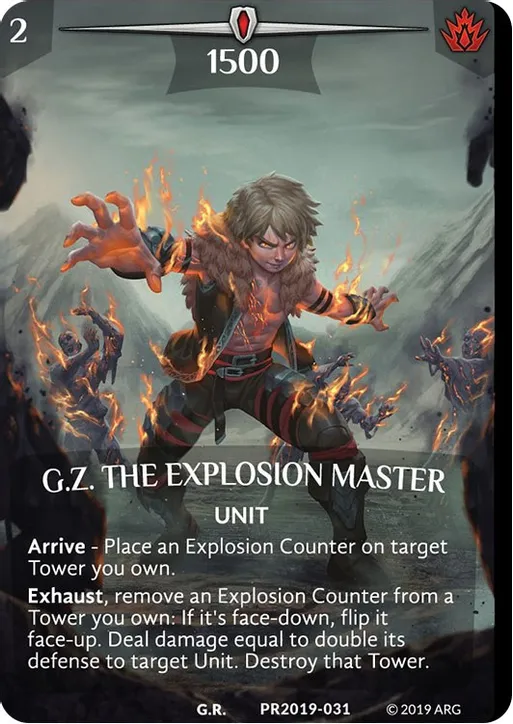
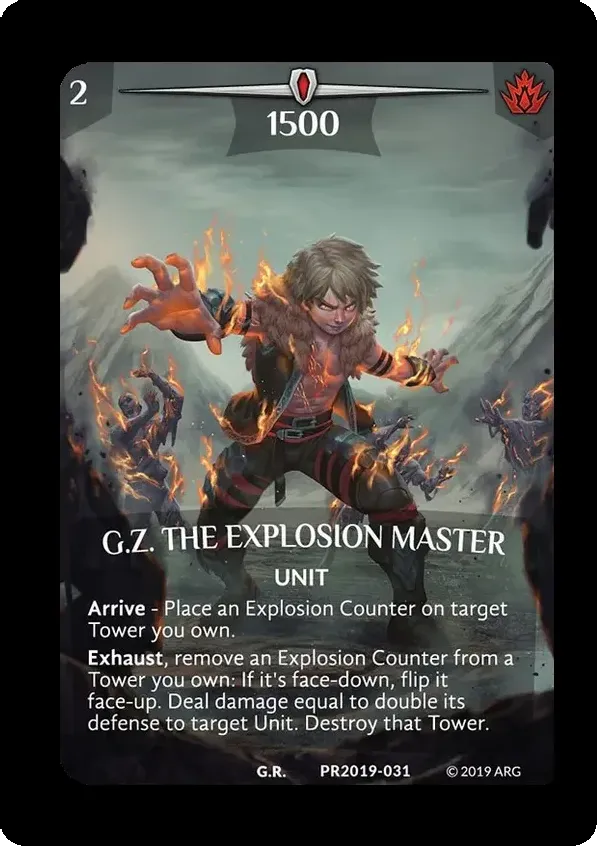
fix

diff --git a/images/python-scripts/chaos.py b/images/python-scripts/chaos.py
@@ -10,7 +10,7 @@ def convertImage(filename):
     datas = img.getdata()
     width, height = img.size
 
-    img = img.crop((1, 3, width - 1, height - 2))
+    img = img.crop((0, 0, width - 19, height - 1))
     img = img.convert("RGBA")
     datas = img.getdata()
     width, height = img.size
@@ -19,75 +19,115 @@ def convertImage(filename):
     for y in range(height):
         for x in range(width):
             pixel = datas.getpixel((x, y))
-            if x in range(9) and y in range(10):
-                if x in range(9) and y == 0:
+            if x in range(27) and y in range(23):
+                if x in range(27) and y == 0:
                     newData.append((0, 0, 0, 255))
-                elif x in range(6) and y == 1:
+                elif x in range(26) and y == 1:
                     newData.append((0, 0, 0, 255))
-                elif x in range(5) and y == 2:
+                elif x in range(21) and y == 2:
                     newData.append((0, 0, 0, 255))
-                elif x in range(4) and y == 3:
+                elif x in range(19) and y == 3:
                     newData.append((0, 0, 0, 255))
-                elif x in range(3) and y == 4:
+                elif x in range(16) and y == 4:
                     newData.append((0, 0, 0, 255))
-                elif x in range(2) and y == 5:
+                elif x in range(14) and y == 5:
                     newData.append((0, 0, 0, 255))
-                elif x in range(2) and y == 6:
+                elif x in range(12) and y == 6:
                     newData.append((0, 0, 0, 255))
-                elif x in range(1) and y == 7:
+                elif x in range(11) and y == 7:
                     newData.append((0, 0, 0, 255))
-                elif x in range(1) and y == 8:
+                elif x in range(10) and y == 8:
+                    newData.append((0, 0, 0, 255))
+                elif x in range(9) and y == 9:
+                    newData.append((0, 0, 0, 255))
+                elif x in range(8) and y == 10:
+                    newData.append((0, 0, 0, 255))
+                elif x in range(7) and y == 11:
+                    newData.append((0, 0, 0, 255))
+                elif x in range(6) and y == 12:
+                    newData.append((0, 0, 0, 255))
+                elif x in range(6) and y == 13:
+                    newData.append((0, 0, 0, 255))
+                elif x in range(5) and y == 14:
+                    newData.append((0, 0, 0, 255))
+                elif x in range(4) and y == 15:
+                    newData.append((0, 0, 0, 255))
+                elif x in range(4) and y == 16:
+                    newData.append((0, 0, 0, 255))
+                elif x in range(3) and y == 17:
+                    newData.append((0, 0, 0, 255))
+                elif x in range(3) and y == 18:
+                    newData.append((0, 0, 0, 255))
+                elif x in range(2) and y == 19:
+                    newData.append((0, 0, 0, 255))
+                elif x in range(2) and y == 20:
+                    newData.append((0, 0, 0, 255))
+                elif x in range(1) and y == 21:
+                    newData.append((0, 0, 0, 255))
+                elif x in range(1) and y == 22:
                     newData.append((0, 0, 0, 255))
                 else:
                     newData.append(pixel)
-            elif x in range(width - 9, width) and y in range(10):
+            elif x in range(width - 9, width) and y in range(3):
                 if x in range(width - 9, width) and y == 0:
                     newData.append((0, 0, 0, 255))
                 elif x in range(width - 6, width) and y == 1:
                     newData.append((0, 0, 0, 255))
                 elif x in range(width - 5, width) and y == 2:
                     newData.append((0, 0, 0, 255))
-                elif x in range(width - 4, width) and y == 3:
+                else:
+                    newData.append(pixel)
+            elif x in range(26) and y in range(height - 21, height):
+                if x in range(26) and y == height - 1:
                     newData.append((0, 0, 0, 255))
-                elif x in range(width - 3, width) and y == 4:
+                elif x in range(21) and y == height - 2:
                     newData.append((0, 0, 0, 255))
-                elif x in range(width - 2, width) and y == 5:
+                elif x in range(19) and y == height - 3:
                     newData.append((0, 0, 0, 255))
-                elif x in range(width - 2, width) and y == 6:
+                elif x in range(17) and y == height - 4:
                     newData.append((0, 0, 0, 255))
-                elif x in range(width - 1, width) and y == 7:
+                elif x in range(15) and y == height - 5:
                     newData.append((0, 0, 0, 255))
-                elif x in range(width - 1, width) and y == 8:
+                elif x in range(13) and y == height - 6:
+                    newData.append((0, 0, 0, 255))
+                elif x in range(12) and y == height - 7:
+                    newData.append((0, 0, 0, 255))
+                elif x in range(10) and y == height - 8:
+                    newData.append((0, 0, 0, 255))
+                elif x in range(9) and y == height - 9:
+                    newData.append((0, 0, 0, 255))
+                elif x in range(8) and y == height - 10:
+                    newData.append((0, 0, 0, 255))
+                elif x in range(7) and y == height - 11:
+                    newData.append((0, 0, 0, 255))
+                elif x in range(7) and y == height - 12:
+                    newData.append((0, 0, 0, 255))
+                elif x in range(6) and y == height - 13:
+                    newData.append((0, 0, 0, 255))
+                elif x in range(5) and y == height - 14:
+                    newData.append((0, 0, 0, 255))
+                elif x in range(4) and y == height - 15:
+                    newData.append((0, 0, 0, 255))
+                elif x in range(4) and y == height - 16:
+                    newData.append((0, 0, 0, 255))
+                elif x in range(3) and y == height - 17:
+                    newData.append((0, 0, 0, 255))
+                elif x in range(3) and y == height - 18:
+                    newData.append((0, 0, 0, 255))
+                elif x in range(2) and y == height - 19:
+                    newData.append((0, 0, 0, 255))
+                elif x in range(2) and y == height - 20:
+                    newData.append((0, 0, 0, 255))
+                elif x in range(2) and y == height - 21:
                     newData.append((0, 0, 0, 255))
                 else:
                     newData.append(pixel)
-            elif x in range(4) and y in range(height - 6, height):
-                if x in range(4) and y == height - 1:
-                    newData.append((0, 0, 0, 255))
-                elif x in range(3) and y == height - 2:
-                    newData.append((0, 0, 0, 255))
-                elif x in range(2) and y == height - 3:
-                    newData.append((0, 0, 0, 255))
-                elif x in range(2) and y == height - 4:
-                    newData.append((0, 0, 0, 255))
-                elif x in range(1) and y == height - 5:
-                    newData.append((0, 0, 0, 255))
-                elif x in range(1) and y == height - 6:
-                    newData.append((0, 0, 0, 255))
-                else:
-                    newData.append(pixel)
-            elif x in range(width - 4, width) and y in range(height - 6, height):
-                if x in range(width - 4, width) and y == height - 1:
+            elif x in range(width - 9, width) and y in range(height - 6, height):
+                if x in range(width - 9, width) and y == height - 1:
                     newData.append((0, 0, 0, 255))
                 elif x in range(width - 3, width) and y == height - 2:
                     newData.append((0, 0, 0, 255))
                 elif x in range(width - 2, width) and y == height - 3:
-                    newData.append((0, 0, 0, 255))
-                elif x in range(width - 2, width) and y == height - 4:
-                    newData.append((0, 0, 0, 255))
-                elif x in range(width - 1, width) and y == height - 5:
-                    newData.append((0, 0, 0, 255))
-                elif x in range(width - 1, width) and y == height - 6:
                     newData.append((0, 0, 0, 255))
                 else:
                     newData.append(pixel)
@@ -235,4 +275,4 @@ def findBottomSide(datas, wi, hi):
 # convertImage("../Expansion-Pack-Generations/198209.webp")
 # convertImage("../Expansion-Pack-Generations/198213.webp")
 
-convertImage("../Promos/silvermist-phoenix.webp")
+convertImage("../Promos/gz-the-explosion-master-1.webp")

diff --git a/images/python-scripts/borders.py b/images/python-scripts/borders.py
@@ -10,6 +10,17 @@ def convertImage(filename):
     datas = img.getdata()
     width, height = img.size
 
+    # Finds where to cut the borders
+    ls = findLeftSide(datas, width, height)
+    rs = findRightSide(datas, width, height)
+    ts = findTopSide(datas, width, height)
+    bs = findBottomSide(datas, width, height)
+
+    # Crops the image and restablishes borders
+    img = img.crop((ls + 1, ts, rs, bs))
+    img = img.convert("RGBA")
+    width, height = img.size
+
     check = img.getdata()
     datas = list(img.getdata())
     width, height = img.size
@@ -19,7 +30,7 @@ def convertImage(filename):
     for y in range(17):
         for x in range(17):
             pixels = check.getpixel((x, y))
-            if pixels[0] >= 100 and pixels[1] >= 100 and pixels[2] >= 100 and tc:
+            if pixels[0] >= 120 and pixels[1] >= 120 and pixels[2] >= 120 and tc:
                 pixel_list = list(datas[y * img.width + x])
                 # Change the index value of the pixel in the list.
                 pixel_list[0] = 255
@@ -34,6 +45,22 @@ def convertImage(filename):
 
     for y in range(height - 17, height):
         for x in range(17):
+            pixels = check.getpixel((x, y))
+            if pixels[0] >= 120 and pixels[1] >= 120 and pixels[2] >= 120 and tc:
+                pixel_list = list(datas[y * img.width + x])
+                # Change the index value of the pixel in the list.
+                pixel_list[0] = 255
+                pixel_list[1] = 255
+                pixel_list[2] = 255
+                pixel_list[3] = 0
+                # Convert the list pixel value back to a tuple.
+                datas[y * img.width + x] = tuple(pixel_list)
+            else:
+                tc = False
+        tc = True
+
+    for y in range(height - 17, height):
+        for x in reversed(range(width - 17, width)):
             pixels = check.getpixel((x, y))
             if pixels[0] >= 200 and pixels[1] >= 200 and pixels[2] >= 200 and tc:
                 pixel_list = list(datas[y * img.width + x])
@@ -48,26 +75,10 @@ def convertImage(filename):
                 tc = False
         tc = True
 
-    for y in range(height - 17, height):
-        for x in reversed(range(width - 17, width)):
-            pixels = check.getpixel((x, y))
-            if pixels[0] >= 100 and pixels[1] >= 100 and pixels[2] >= 100 and tc:
-                pixel_list = list(datas[y * img.width + x])
-                # Change the index value of the pixel in the list.
-                pixel_list[0] = 255
-                pixel_list[1] = 255
-                pixel_list[2] = 255
-                pixel_list[3] = 0
-                # Convert the list pixel value back to a tuple.
-                datas[y * img.width + x] = tuple(pixel_list)
-            else:
-                tc = False
-        tc = True
-
     for y in range(17):
         for x in reversed(range(width - 17, width)):
             pixels = check.getpixel((x, y))
-            if pixels[0] >= 100 and pixels[1] >= 100 and pixels[2] >= 100 and tc:
+            if pixels[0] >= 120 and pixels[1] >= 120 and pixels[2] >= 120 and tc:
                 pixel_list = list(datas[y * img.width + x])
                 # Change the index value of the pixel in the list.
                 pixel_list[0] = 255
@@ -84,12 +95,14 @@ def convertImage(filename):
     img.save(filename, "WEBP")
     print("Success")
 
+    img.show()
+
 
 def findLeftSide(datas, wi, hi):
     for x in range(wi):
         for y in range(hi):
             pixel = datas.getpixel((x, y))
-            if pixel[0] < 100 and pixel[1] < 100 and pixel[2] < 100:
+            if pixel[0] < 200 and pixel[1] < 200 and pixel[2] < 200:
                 return x
 
 
@@ -97,7 +110,7 @@ def findRightSide(datas, wi, hi):
     for x in reversed(range(wi)):
         for y in range(hi):
             pixel = datas.getpixel((x, y))
-            if pixel[0] < 100 and pixel[1] < 100 and pixel[2] < 100:
+            if pixel[0] < 200 and pixel[1] < 200 and pixel[2] < 200:
                 return x
 
 
@@ -105,7 +118,7 @@ def findTopSide(datas, wi, hi):
     for y in range(hi):
         for x in range(wi):
             pixel = datas.getpixel((x, y))
-            if pixel[0] < 100 and pixel[1] < 100 and pixel[2] < 100:
+            if pixel[0] < 200 and pixel[1] < 200 and pixel[2] < 200:
                 return y
 
 
@@ -113,7 +126,7 @@ def findBottomSide(datas, wi, hi):
     for y in reversed(range(hi)):
         for x in range(wi):
             pixel = datas.getpixel((x, y))
-            if pixel[0] < 100 and pixel[1] < 100 and pixel[2] < 100:
+            if pixel[0] < 200 and pixel[1] < 200 and pixel[2] < 200:
                 return y
 
 
@@ -122,4 +135,4 @@ def findBottomSide(datas, wi, hi):
 #     if ".webp" in filename:
 #         convertImage(directory + filename)
 
-convertImage("../Promos/ruka-pugilist-of-the-holy-flame.webp")
+convertImage("../Promos/ghostly-demise.webp")
